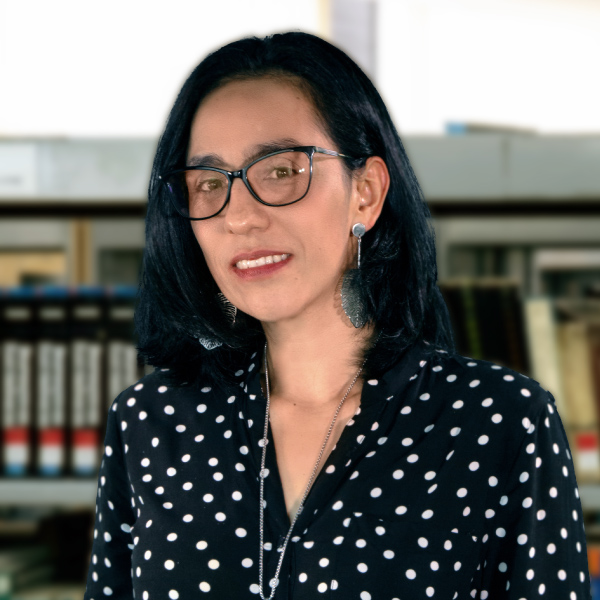
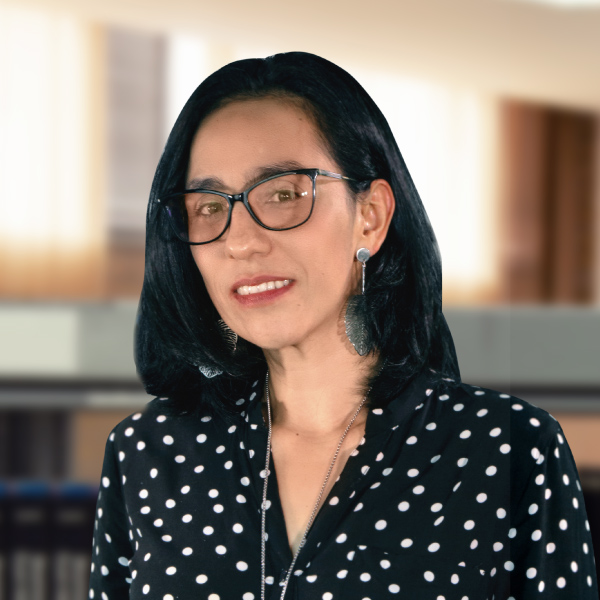
update img uead

diff --git a/src/app/unidad/unidad.component.html b/src/app/unidad/unidad.component.html
@@ -591,13 +591,13 @@
           <div class="member">
             <div class="member-img">
               <img
-                src="assets/img/ued/Julian.jpg"
+                src="assets/img/ued/Mauricio.jpg"
                 class="img-fluid"
                 alt="Julián Gómez"
               />
             </div>
             <div class="member-info">
-              <h4>Julián Gómez</h4>
+              <h4>Jonathan Mauricio Arboleda Zuluaga</h4>
               <p>Infraestructura</p>
               <br>
             </div>
